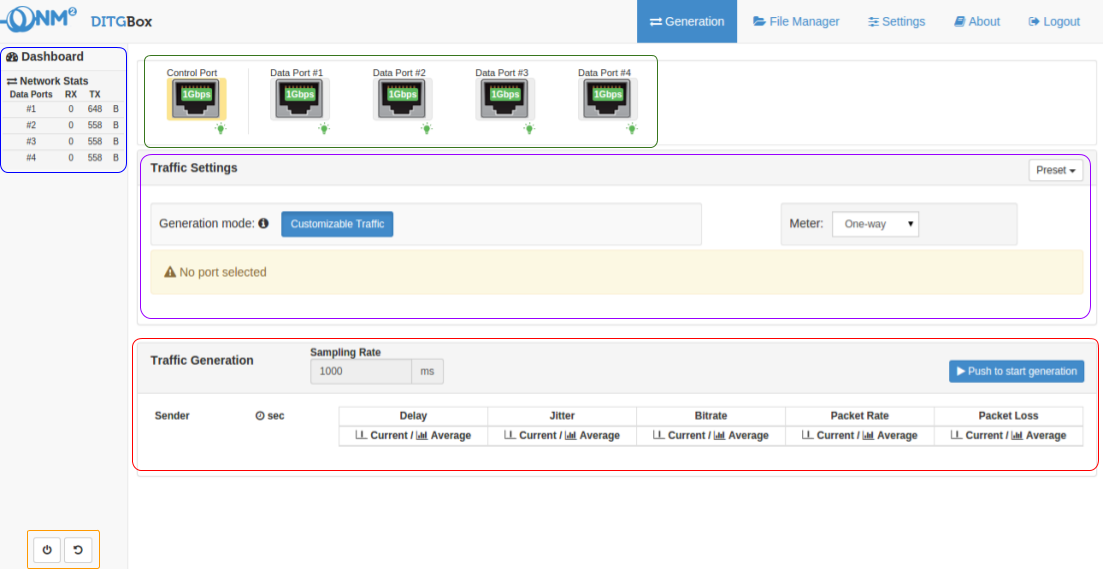
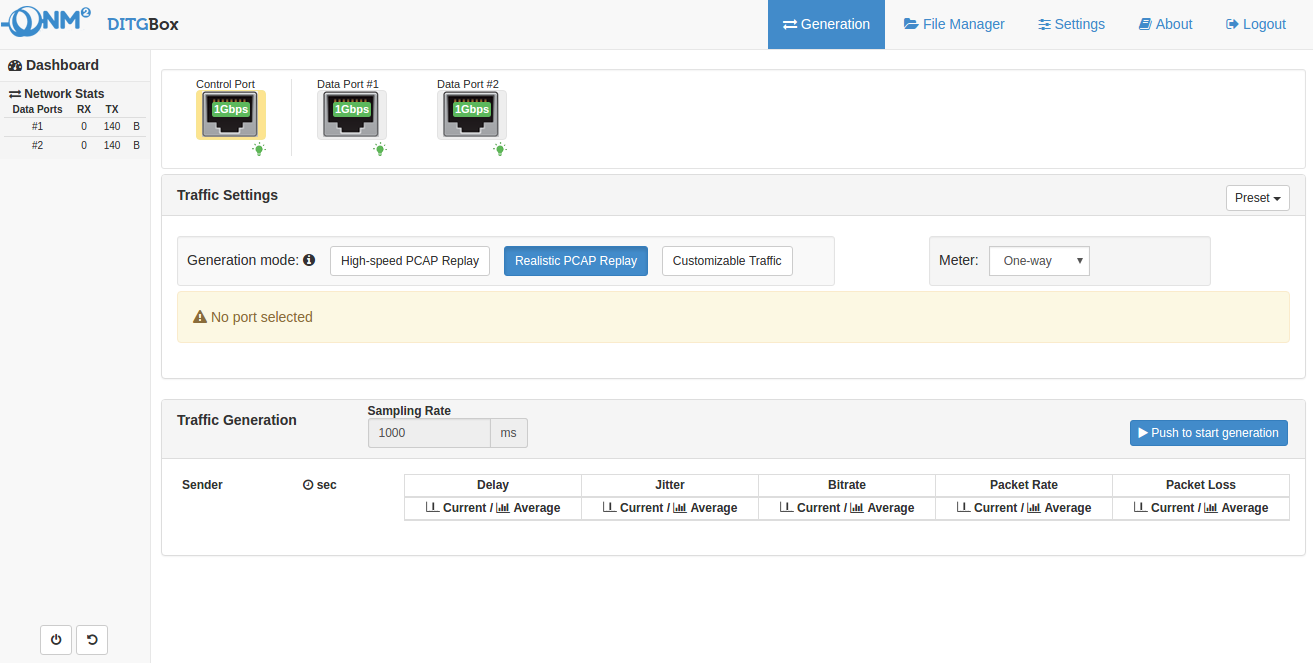
Website generation with Couscous

diff --git a/index.html b/index.html
@@ -22,7 +22,7 @@
                 <a class="nounderline" href="https://nm2.github.io/ditgbox-doc/">
                     DITGBox Doc
                     <small class="hidden-xs hidden-sm">
-                        DITGBox Documentation
+                        DITGBox v1.3.9 Documentation
                     </small>
                 </a>
             </div>
@@ -99,32 +99,71 @@ On the  top of the Generation page the name, speed and status of the Control Por
 In order to configure an experiment the user has to select a data port by clicking on its icon. After doing that the “Traffic Settings” for the selected data port will be shown.</p>
 <h3 id="traffic-settings">Traffic Settings</h3>
 <p>The “Traffic Settings” section allows to customize a new traffic generation experiment, save a preset of the experiment or load a previously saved preset.
-The “Generation mode” button lets the user select the kind of traffic experiments the product supports. Generation modes are dependent on the license currently installed with your DITGBox appliance.
 The “Meter” drop-down menu allows to choose if the metrics computed by DITGBox will be one-way or round-trip.
+The “Generation mode” button lets the user select the kind of traffic experiments the product supports. Generation modes are dependent on the license currently installed with your DITGBox appliance.</p>
+<h4 id="customizable-traffic">Customizable Traffic</h4>
+<p>The Customizable Traffic mode allows to generate synthetic traffic, statistically modeled to emulate any type of real application.
 When a data port has been selected to generate traffic, the user will see a flow profile associated with it. On the left side of each flow profile he can then see/edit its name, status and number of replicas. On the right side there are buttons to add a new flow profile, clone or delete the current one.
 For each traffic flow profile the user can configure settings shown in 5 tabs:
 Application Layer, Transport Layer, Network Layer, Destination and Timing Options.</p>
 <p><img src="images/traffic_settings.png?style=centerme" alt="traffic-settings" /></p>
-<h4 id="application-layer">Application Layer</h4>
+<h5 id="application-layer">Application Layer</h5>
 <p>The “Application Layer” tab allows the user to choose a stochastic profile for the generated traffic. Each stochastic profile has its own specific settings. For example, if the VoIP profile is selected the user will be able to choose the codec type used for the traffic generation.
 The “Custom” profile allows to fully customize the generated traffic. By selecting this profile the user is able to set the following parameters:
 payload size distribution, inter-departure time distribution, required throughput, payload size of the packets, packet rate, payload content and seed to initialize the random generator used for distributions.
 The required throughput, the payload size and the packet rate are interdependent. Clicking on the lock icon above one of these parameters locks the parameter and allows to edit the remaining two.</p>
 <p><img src="images/custom_generation_profile.png?style=centerme" alt="custom-profile" /></p>
-<h4 id="transport-layer">Transport Layer</h4>
+<h5 id="transport-layer">Transport Layer</h5>
 <p>The “Transport Layer” tab allows the user to choose TCP or UDP as the transport layer protocol and the source and destination ports.</p>
 <p><img src="images/transport_layer.png?style=centerme" alt="transport-layer" /></p>
-<h4 id="network-layer">Network Layer</h4>
+<h5 id="network-layer">Network Layer</h5>
 <p>The “Network Layer” tab allows to choose the IP version, the source and destination IP addresses with netmask, the “Time To Live” and “Type of Service” values.</p>
 <p><img src="images/network_layer.png?style=centerme" alt="network-layer" /></p>
-<h4 id="destination">Destination</h4>
+<h5 id="destination">Destination</h5>
 <p>The “Destination” tab allows to decide who is going to receive the traffic generated during the experiment. Two kinds of destination can be chosen:
 <em>loopback</em> when the destination data port belongs to the same box that generates traffic or <em>remote box</em> when the destination data port belongs to a remote box to which the origin box is connected. In order to be able to choose a remote data port, a remote box has to be added first (see Remote Configuration).</p>
 <p><img src="images/traffic_settings_destination_loopback.png?style=centerme" alt="traffic-settings-destination-loopback" /></p>
 <p><img src="images/traffic_settings_destination_remote_box.png?style=centerme" alt="traffic-settings-destination-remote_box" /></p>
-<h4 id="timing-options">Timing Options</h4>
+<h5 id="timing-options">Timing Options</h5>
 <p>The “Timing Options” tab allows to set an initial delay for the traffic generation and the time duration of the traffic generation. The latter can be set to <em>auto</em> to specify an amount of time after which the generation automatically stops, or <em>manual</em> to be able to stop the generation manually.</p>
 <p><img src="images/traffic_settings_timing_options.png?style=centerme" alt="traffic-settings-timing-options" /></p>
+<h4 id="realistic-pcap-replay">Realistic PCAP Replay</h4>
+<p>The Realistic PCAP Replay mode allows to replicate selected flows of a pre-collected packet trace with tunable speed. When a data port has been selected to generate traffic, the user will see a flow profile associated with it.
+On the left side of each flow profile he can then see/edit its name, status and number of replicas. On the right side there are buttons to add a new flow profile, clone or delete the current one.
+For each traffic flow profile the user can configure settings shown in 5 tabs: Application Layer, Transport Layer, Network Layer, Destination and Timing Options.</p>
+<p><img src="images/realistic_pcap.png?style=centerme" alt="realistic-pcap" /></p>
+<h5 id="application-layer-1">Application Layer</h5>
+<p>In the &quot;Application Layer&quot; tab users can associate a PCAP trace to a flow profile. They can either upload a new trace or select a previously loaded one.
+When the user tries to load a new trace the PCAP File Manager modal will show up. Here a preview of the uploaded trace file can also be viewed.</p>
+<p><img src="images/realistic_pcap_upload.png?style=centerme" alt="realistic-pcap-trace-upload" /></p>
+<p>When a trace is loaded, the user has to click on the &quot;Select PCAP Conversation&quot; button in order to select a conversation to be replicated. The PCAP Conversation Selector will show up allowing the user to select a specific conversation within the trace.
+Once the conversation has been chosen the flow profile in the &quot;Traffic Settings&quot; section will be updated to show the relevant info of the selected PCAP conversation.</p>
+<p><img src="images/realistic_pcap_conversation_loaded.png?style=centerme" alt="realistic-pcap-conversation-loaded" /></p>
+<p>By editing the &quot;Speed scaling&quot; field, users can tune the speed at which the trace is replicated.</p>
+<h5 id="transport-layer-1">Transport Layer</h5>
+<p>In the &quot;Transport Layer&quot; tab the protocol, source and destination ports of the selected conversation are shown and are not editable.</p>
+<h5 id="network-layer-1">Network Layer</h5>
+<p>The &quot;Network Layer&quot; tab shows the IP version of the replicated conversation and allows users to edit the source and destination IP addresses of the traffic to be generated.</p>
+<p><img src="images/realistic_pcap_network_layer.png?style=centerme" alt="realistic-pcap-network-layer" /></p>
+<h5 id="destination-1">Destination</h5>
+<p>The “Destination” tab allows to decide who is going to receive the traffic generated during the experiment. Two kinds of destination can be chosen:
+<em>loopback</em> when the destination data port belongs to the same box that generates traffic or <em>remote box</em> when the destination data port belongs to a remote box to which the origin box is connected. In order to be able to choose a remote data port, a remote box has to be added first (see Remote Configuration).</p>
+<h5 id="timing-options-1">Timing Options</h5>
+<p>The “Timing Options” tab allows to set an initial delay for the traffic generation and the time duration of the traffic generation. The latter can be set to <em>auto</em> to specify an amount of time after which the generation automatically stops, or <em>manual</em> to be able to stop the generation manually.</p>
+<h4 id="high-speed-pcap-replay">High-speed PCAP Replay</h4>
+<p>The High-speed PCAP Replay mode, by exploiting the Intel® DPDK libraries, allows to replicate a pre-collected trace at the full speed of the data ports involved in the experiment.
+Only one single traffic flow profile is supported in this generation mode. The user can configure its settings in 3 tabs: PCAP Details, Destination and Timing Options.</p>
+<p><img src="images/high_speed_replay.png?style=centerme" alt="high-speed-replay" /></p>
+<h5 id="pcap-details">PCAP Details</h5>
+<p>In the &quot;PCAP Details&quot; tab users can associate a PCAP trace to the flow profile. They can either upload a new trace or select a previously loaded one.
+When the user tries to load a new trace the PCAP File Manager modal will show up. Here a preview of the uploaded trace file can also be viewed.
+Once the trace is selected, the &quot;Traffic Settings&quot; section will show its duration and downstream/upstream volume. The speed scaling will be set to 100% and it won't be editable.</p>
+<h5 id="destination-2">Destination</h5>
+<p>The “Destination” tab allows to decide who is going to receive the traffic generated during the experiment. Two kinds of destination can be chosen:
+<em>loopback</em> when the destination data port belongs to the same box that generates traffic or <em>remote box</em> when the destination data port belongs to a remote box to which the origin box is connected. In order to be able to choose a remote data port, a remote box has to be added first (see Remote Configuration).</p>
+<h5 id="timing-options-2">Timing Options</h5>
+<p>The “Timing Options” tab allows to set the time duration of the traffic generation. It can be set to <em>auto</em> to specify an amount of time after which the generation automatically stops, or <em>manual</em> to be able to stop the generation manually.</p>
+<p><img src="images/high_speed_timing_options.png?style=centerme" alt="high-speed-timing-options" /></p>
 <h3 id="traffic-generation">Traffic Generation</h3>
 <p>The “Traffic Generation” section shows the current status of the traffic generation on top along with buttons to stop or abort the generation and a table reporting the elapsed time of the experiment and the computed metrics for both the Sender and the Receiver data ports. The rows of this table can be expanded/collapsed by clicking the arrow icons to the right of the data port names.</p>
 <p><img src="images/traffic_generation_running_experiment.png?style=centerme" alt="traffic-generation-running-experiment" /></p>

diff --git a/readme.html b/readme.html
@@ -22,7 +22,7 @@
                 <a class="nounderline" href="https://nm2.github.io/ditgbox-doc/">
                     DITGBox Doc
                     <small class="hidden-xs hidden-sm">
-                        DITGBox Documentation
+                        DITGBox v1.3.9 Documentation
                     </small>
                 </a>
             </div>
